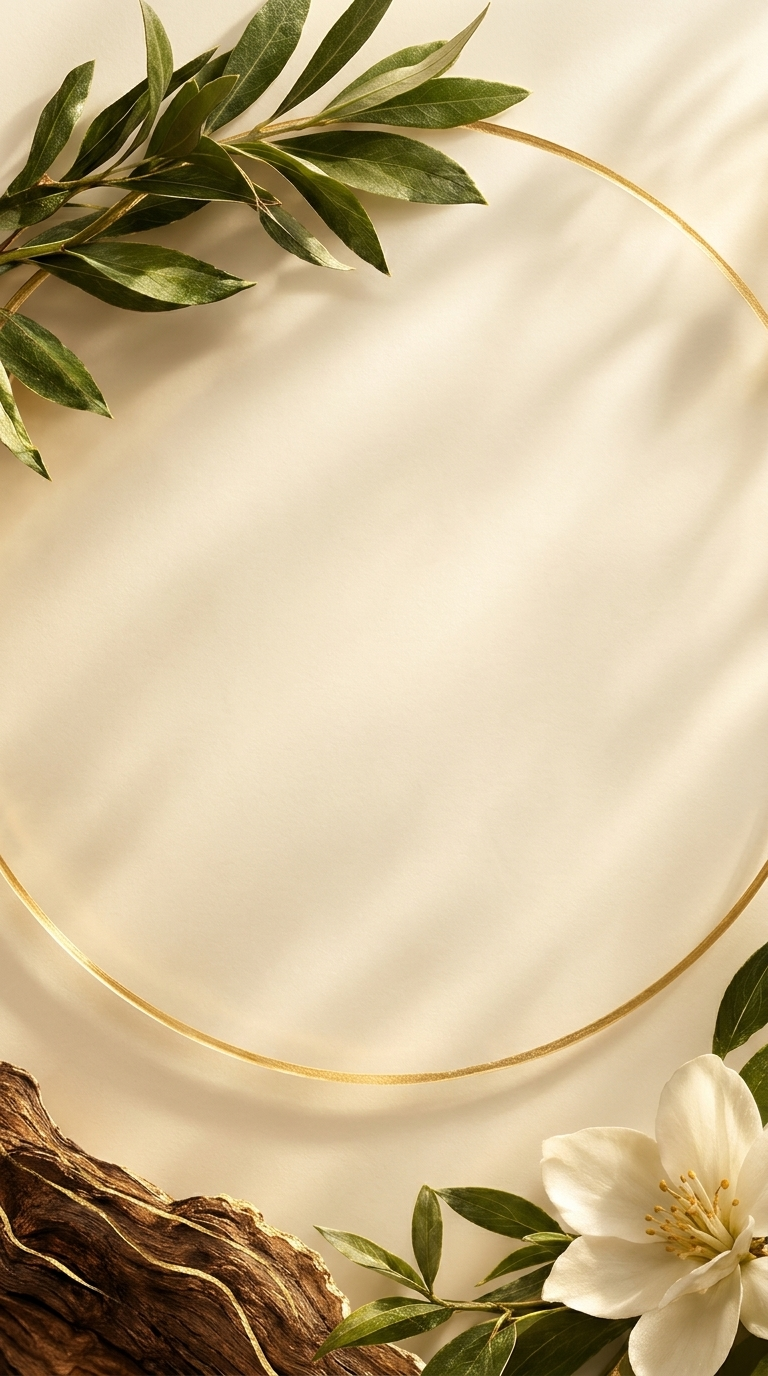
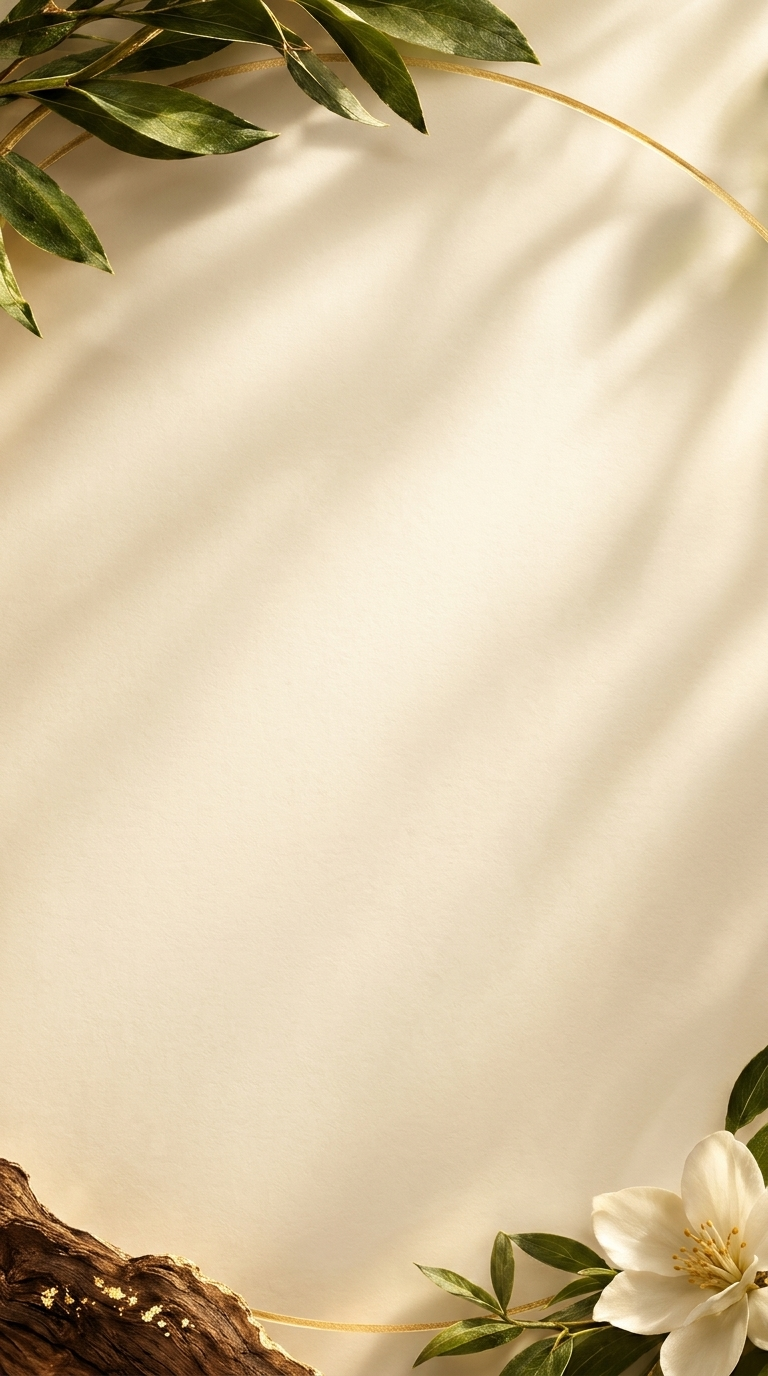
Fix mobile middle placement: clear olive leaf collision and position text cluster in optical center of screen

diff --git a/src/components/ComingSoon.jsx b/src/components/ComingSoon.jsx
@@ -2,7 +2,7 @@ import React, { useState, useEffect, useRef } from 'react';
 import { motion, AnimatePresence, useMotionValue, useSpring, useTransform } from 'framer-motion';
 import comingSoonHero from '../assets/coming_soon_hero.jpg';
 import luneEditorialBg from '../assets/lune_editorial_bg.jpg';
-import luneEditorialMobileBg from '../assets/lune_editorial_mobile_bg.jpg';
+import luneEditorialMobileBg from '../assets/lune_mobile_open_center.jpg';
 import logoGold from '../assets/Logo_Gold_Exact.png';
 
 const DEFAULT_PASSCODE = 'lune2026';
@@ -151,26 +151,26 @@ export default function ComingSoon({ onUnlockPreview }) {
             <div className="absolute inset-0 bg-gradient-to-b from-white/5 via-transparent to-white/10 pointer-events-none" />
           </div>
 
-          {/* ── Main Editorial Content (Evenly distributed across the circle frame) ────── */}
+          {/* ── Main Editorial Content (Centered in the vast open middle of the screen) ────── */}
           <motion.div
             variants={stagger}
             initial="hidden"
             animate="visible"
-            className="flex-1 w-full max-w-md lg:max-w-lg mx-auto flex flex-col justify-evenly items-center text-center relative z-10 py-2 sm:py-4 shrink-0"
+            className="my-auto w-full max-w-sm sm:max-w-md lg:max-w-lg mx-auto flex flex-col items-center text-center relative z-10 py-3 sm:py-5 px-3 space-y-3.5 sm:space-y-5 shrink-0 translate-y-7 sm:translate-y-0"
           >
-            {/* LUNE New Gold Logo — Large, Majestic & Prominently positioned at the upper curve */}
+            {/* LUNE New Gold Logo — Majestic, Prominent, Centered in open space */}
             <motion.div variants={fadeUp} className="flex flex-col items-center w-full">
               <img
                 src={logoGold}
                 alt="LUNE FRAGRANCE"
-                className="w-[82%] sm:w-[85%] max-w-[280px] sm:max-w-[340px] md:max-w-[400px] lg:max-w-[460px] h-auto object-contain mx-auto filter drop-shadow-[0_8px_24px_rgba(180,140,70,0.32)] hover:scale-[1.02] transition-transform duration-500"
+                className="w-[76%] sm:w-[80%] max-w-[260px] sm:max-w-[340px] md:max-w-[400px] lg:max-w-[460px] h-auto object-contain mx-auto filter drop-shadow-[0_8px_24px_rgba(180,140,70,0.30)] hover:scale-[1.02] transition-transform duration-500"
               />
               {/* Refined Gold Separation Line */}
               <div className="mt-2.5 sm:mt-3.5 mx-auto w-24 sm:w-32 h-[1px] bg-gradient-to-r from-transparent via-[#C2A263] to-transparent opacity-70" />
             </motion.div>
 
-            {/* COMING SOON Heading & Narrative — Center of circle */}
-            <motion.div variants={fadeUp} className="flex flex-col items-center space-y-2 sm:space-y-3 px-2">
+            {/* COMING SOON Heading & Narrative — Center of screen */}
+            <motion.div variants={fadeUp} className="flex flex-col items-center space-y-1.5 sm:space-y-2.5 px-2">
               <p
                 className="text-[10px] sm:text-xs text-[#948A7B] font-light tracking-[0.26em] uppercase"
                 style={{ fontFamily: "'Inter', sans-serif" }}
@@ -178,13 +178,13 @@ export default function ComingSoon({ onUnlockPreview }) {
                 Our New Website Is
               </p>
               <h1
-                className="text-[clamp(2.1rem,5vw,4.2rem)] font-extralight tracking-[0.14em] text-[#111] leading-[1.05]"
+                className="text-[clamp(2.1rem,5.2vw,4.2rem)] font-extralight tracking-[0.14em] text-[#111] leading-[1.05]"
                 style={{ fontFamily: "'Outfit', sans-serif" }}
               >
                 COMING SOON
               </h1>
               <p
-                className="text-[12px] sm:text-[13.5px] text-[#6E675D] font-light leading-[1.65] max-w-[300px] sm:max-w-md mx-auto"
+                className="text-[11.5px] sm:text-[13px] text-[#6E675D] font-light leading-[1.6] max-w-[280px] sm:max-w-md mx-auto pt-0.5"
                 style={{ fontFamily: "'Inter', sans-serif" }}
               >
                 We are crafting an extraordinary haute fragrance experience.
@@ -192,12 +192,12 @@ export default function ComingSoon({ onUnlockPreview }) {
               </p>
             </motion.div>
 
-            {/* ── ELEGANT LUXURY INSTAGRAM SECTION — Lower region of circle ───────────── */}
-            <motion.div variants={fadeUp} className="w-full flex flex-col items-center">
-              <div className="flex items-center gap-2 mb-2 sm:mb-2.5">
+            {/* ── ELEGANT LUXURY INSTAGRAM SECTION — Middle zone ───────────── */}
+            <motion.div variants={fadeUp} className="w-full flex flex-col items-center pt-0.5 sm:pt-1">
+              <div className="flex items-center gap-2 mb-2">
                 <span className="w-1.5 h-1.5 rounded-full bg-[#BFA15F]" />
                 <span
-                  className="text-[9.5px] sm:text-[10px] tracking-[0.28em] uppercase text-[#998E7D] font-medium"
+                  className="text-[9px] sm:text-[10px] tracking-[0.28em] uppercase text-[#998E7D] font-medium"
                   style={{ fontFamily: "'Inter', sans-serif" }}
                 >
                   Connect With Us
@@ -209,10 +209,10 @@ export default function ComingSoon({ onUnlockPreview }) {
                 target="_blank"
                 rel="noopener noreferrer"
                 aria-label="Follow Lune Fragrances on Instagram"
-                className="group relative inline-flex items-center gap-3.5 sm:gap-4 px-5 sm:px-6 py-2.5 sm:py-3.5 rounded-2xl border border-[#DFD7CA] hover:border-[#BFA15F] bg-white/92 hover:bg-white backdrop-blur-md transition-all duration-400 shadow-[0_4px_20px_-4px_rgba(0,0,0,0.06)] hover:shadow-[0_12px_32px_-6px_rgba(191,161,95,0.25)] hover:-translate-y-0.5 cursor-pointer max-w-xs sm:max-w-sm w-full sm:w-auto"
+                className="group relative inline-flex items-center gap-3.5 sm:gap-4 px-4.5 sm:px-6 py-2.5 sm:py-3.5 rounded-2xl border border-[#DFD7CA] hover:border-[#BFA15F] bg-white/92 hover:bg-white backdrop-blur-md transition-all duration-400 shadow-[0_4px_20px_-4px_rgba(0,0,0,0.06)] hover:shadow-[0_12px_32px_-6px_rgba(191,161,95,0.25)] hover:-translate-y-0.5 cursor-pointer max-w-xs sm:max-w-sm w-full sm:w-auto"
               >
                 {/* Haute Parfumerie Gold & Obsidian Emblem */}
-                <div className="relative flex items-center justify-center w-10 h-10 sm:w-11 sm:h-11 rounded-xl bg-gradient-to-br from-[#FAF7F2] to-[#ECE4D6] border border-[#DFD6C6] group-hover:bg-[#111] group-hover:border-[#111] transition-all duration-300 shadow-sm shrink-0">
+                <div className="relative flex items-center justify-center w-9 h-9 sm:w-11 sm:h-11 rounded-xl bg-gradient-to-br from-[#FAF7F2] to-[#ECE4D6] border border-[#DFD6C6] group-hover:bg-[#111] group-hover:border-[#111] transition-all duration-300 shadow-sm shrink-0">
                   <svg
                     className="w-4.5 h-4.5 sm:w-5 sm:h-5 text-[#8E7340] group-hover:text-[#D4AF37] transition-colors duration-300"
                     viewBox="0 0 24 24"
@@ -231,13 +231,13 @@ export default function ComingSoon({ onUnlockPreview }) {
                 {/* Account Details */}
                 <div className="flex flex-col text-left">
                   <span
-                    className="text-[13.5px] sm:text-[15px] font-normal text-[#1A1A1A] group-hover:text-[#000] tracking-[0.04em] transition-colors"
+                    className="text-[13px] sm:text-[15px] font-normal text-[#1A1A1A] group-hover:text-[#000] tracking-[0.04em] transition-colors"
                     style={{ fontFamily: "'Outfit', sans-serif" }}
                   >
                     @lune.fragrances
                   </span>
                   <span
-                    className="text-[9.5px] sm:text-[10px] text-[#9A9184] group-hover:text-[#8E7340] transition-colors tracking-[0.16em] uppercase font-light"
+                    className="text-[9px] sm:text-[10px] text-[#9A9184] group-hover:text-[#8E7340] transition-colors tracking-[0.16em] uppercase font-light"
                     style={{ fontFamily: "'Inter', sans-serif" }}
                   >
                     Follow on Instagram
